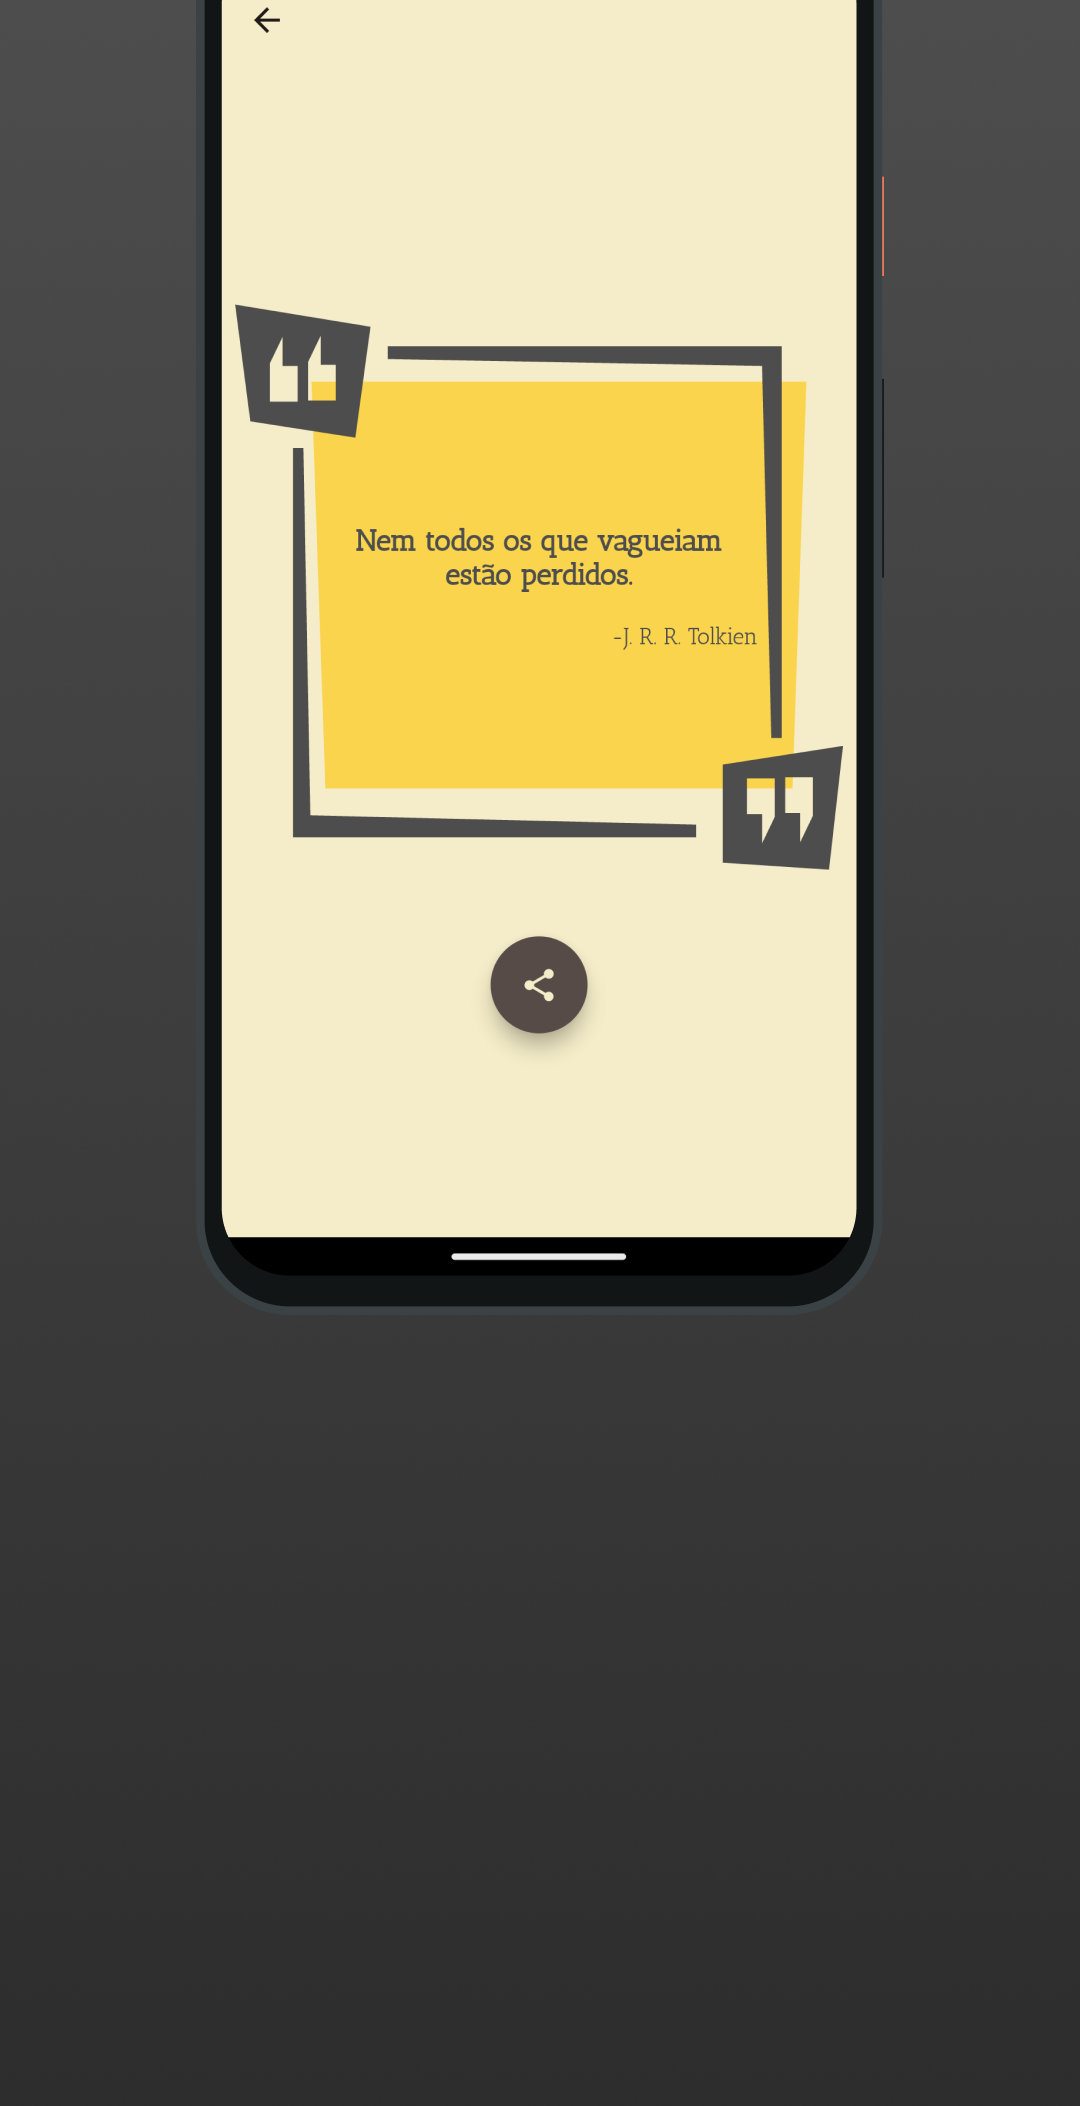
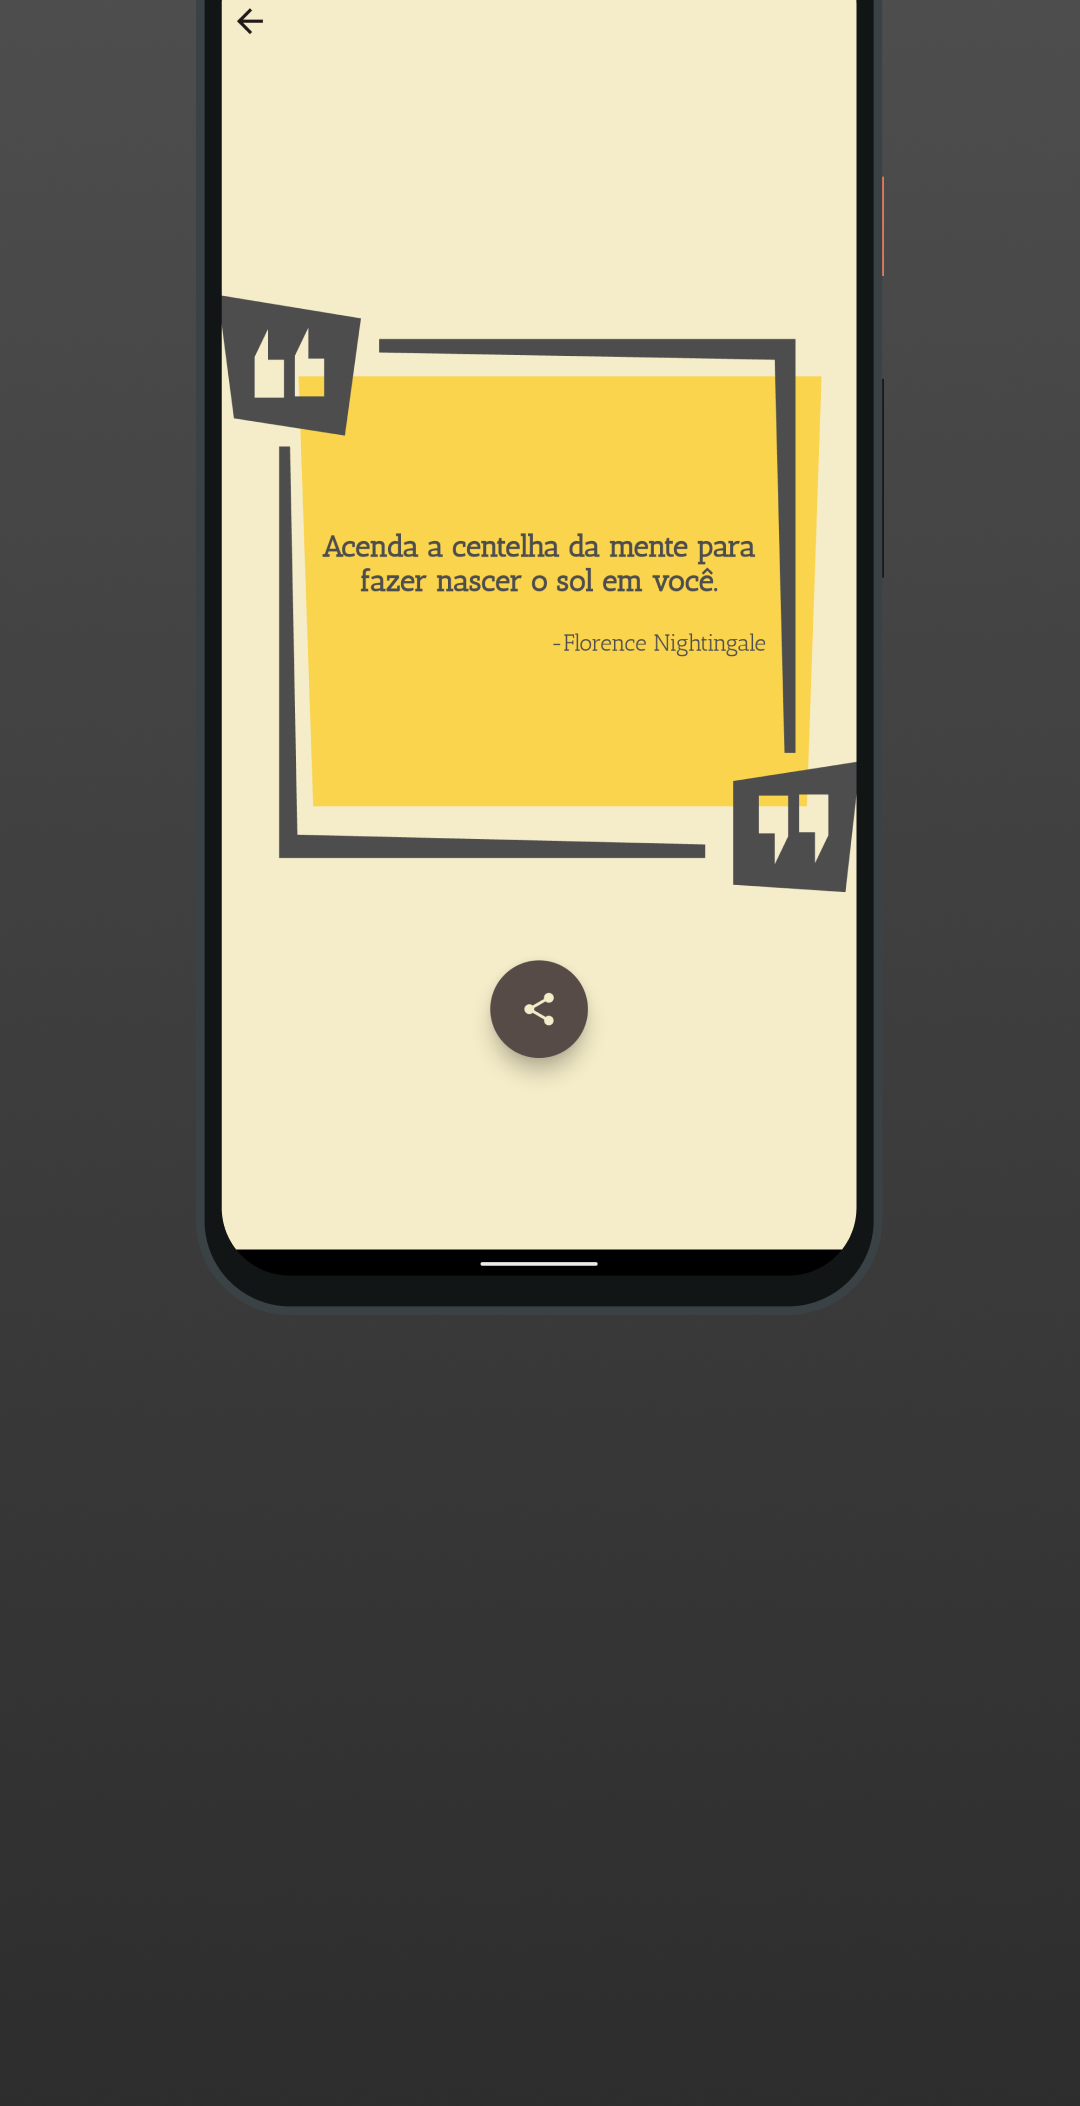
feature: finish integration with supabase

Changed region(s): [[0.1833, 0.1235, 0.7944, 0.5247], [0.2139, 0.5864, 0.7944, 0.6173], [0.2139, 0.0, 0.2444, 0.0309]]

diff --git a/lib/main.dart b/lib/main.dart
@@ -1,6 +1,7 @@
 import 'package:firebase_core/firebase_core.dart';
 import 'package:flutter/material.dart';
 import 'package:flutter_bloc/flutter_bloc.dart';
+import 'package:flutter_dotenv/flutter_dotenv.dart';
 import 'package:supabase_flutter/supabase_flutter.dart';
 
 import 'app/bloc/message/message_controller.dart';
@@ -11,15 +12,15 @@ import 'injection.dart' as di;
 
 Future<void> main() async {
   WidgetsFlutterBinding.ensureInitialized();
-  await Supabase.initialize(
-    url: 'https://oymrnlprnkwhxeajawuk.supabase.co',
-    anonKey:
-        'eyJhbGciOiJIUzI1NiIsInR5cCI6IkpXVCJ9.eyJpc3MiOiJzdXBhYmFzZSIsInJlZiI6Im95bXJubHBybmt3aHhlYWphd3VrIiwicm9sZSI6ImFub24iLCJpYXQiOjE2ODUxNDM1MzEsImV4cCI6MjAwMDcxOTUzMX0.MXrwCAqQwsMZ78gRM5QviikjSGXr3yjdZEOAtx572UQ',
-  );
+  await dotenv.load(fileName: '.env');
   await Firebase.initializeApp(
     options: DefaultFirebaseOptions.currentPlatform,
   );
   di.init();
+  await Supabase.initialize(
+    url: dotenv.env['SUPABASE_URL']!,
+    anonKey: dotenv.env['SUPABASE_KEY']!,
+  );
 
   runApp(const MyApp());
 }

diff --git a/lib/app/bloc/message/message_controller.dart b/lib/app/bloc/message/message_controller.dart
@@ -1,3 +1,5 @@
+import 'dart:math';
+
 import 'package:dio/dio.dart';
 import 'package:flutter_bloc/flutter_bloc.dart';
 
@@ -15,11 +17,21 @@ class MessageController extends Cubit<MessageState> {
   }
 
   Future<void> getRandomMessage() async {
+    final id = Random().nextInt(await getCount());
     try {
-      final response = await repository.fetchQuote();
+      final response = await repository.fetchQuote(id);
       emit(MessageSuccess(response));
     } on DioError catch (_) {
       emit(MessageError('Erro ao buscar sua mensagem!'));
+    }
+  }
+
+  Future<int> getCount() async {
+    try {
+      final response = await repository.getCount();
+      return response;
+    } on DioError catch (_) {
+      return 1;
     }
   }
 }

diff --git a/lib/app/repositories/quote_repository.dart b/lib/app/repositories/quote_repository.dart
@@ -9,9 +9,15 @@ class QuoteRepository {
   final RestClientDio customDio;
   final supabase = Supabase.instance.client;
 
-  Future<Quote> fetchQuote() async {
-    final data = await supabase.from('quotes').select().eq('id', 2);
+  Future<Quote> fetchQuote(int id) async {
+    final data = await supabase.from('quotes').select().eq('id', id);
     final responseMap = data[0] as Map<String, dynamic>;
     return Quote.fromJson(responseMap);
+  }
+
+  Future<int> getCount() async {
+    final data = await supabase.from('quote_count').select('count');
+    final responseMap = data[0] as Map<String, dynamic>;
+    return responseMap['count'] as int;
   }
 }

diff --git a/lib/app/views/message/components/success_widget.dart b/lib/app/views/message/components/success_widget.dart
@@ -74,7 +74,7 @@ class SuccessWidget extends StatelessWidget {
                       duration: 500.ms,
                     ),
                 Padding(
-                  padding: const EdgeInsets.symmetric(horizontal: 60),
+                  padding: const EdgeInsets.symmetric(horizontal: 66),
                   child: Column(
                     mainAxisAlignment: MainAxisAlignment.center,
                     children: [
